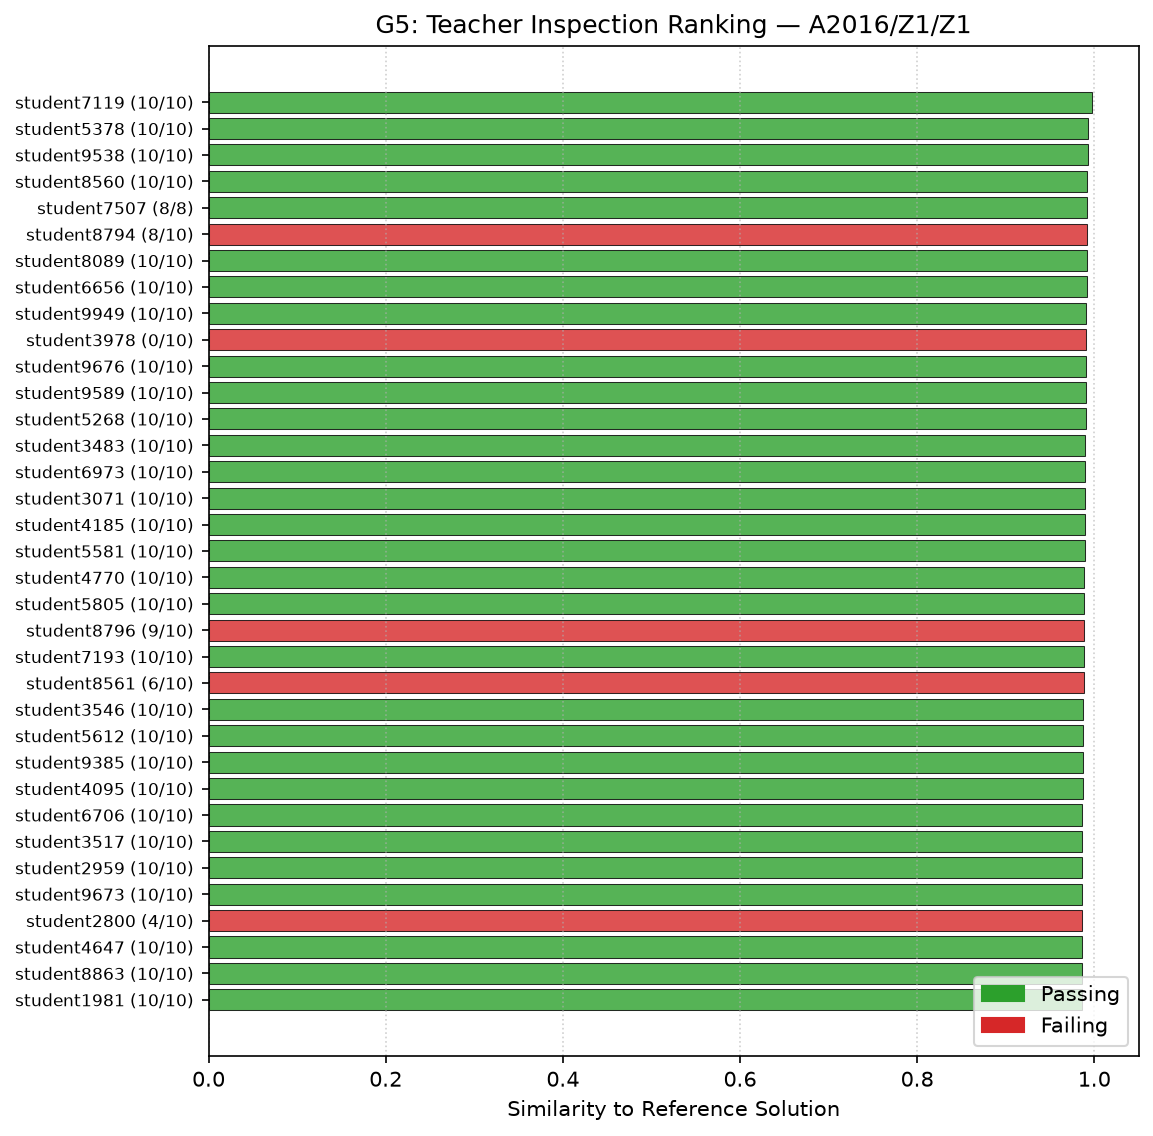
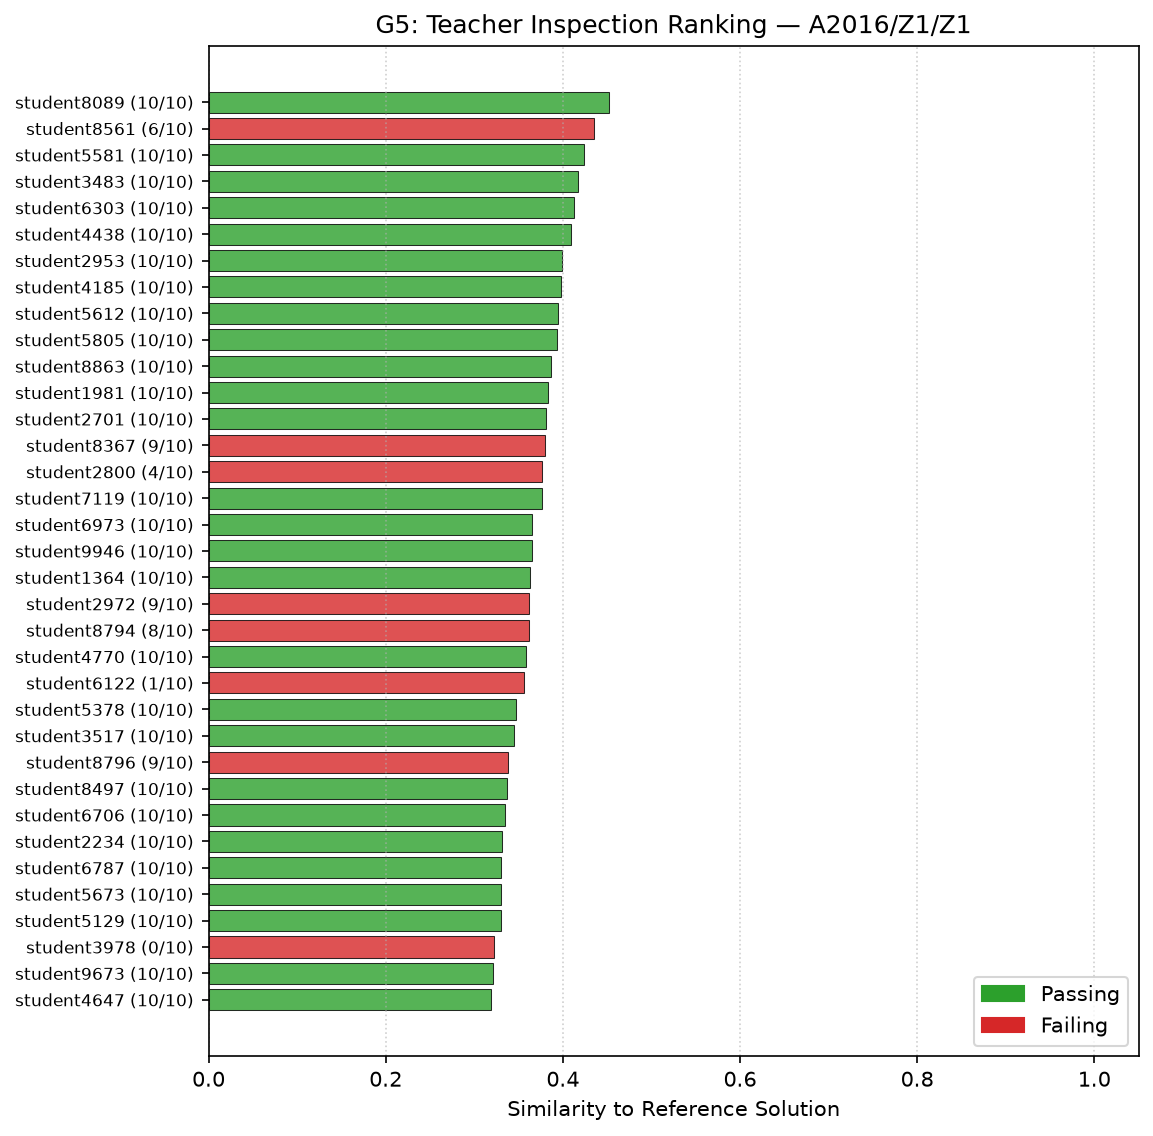
feat(eval): automate E2 table generation and add objective cluster showcase t-SNE

diff --git a/models/logic_eval/plots.py b/models/logic_eval/plots.py
@@ -297,3 +297,181 @@ def plot_g5_teacher_view(
     out_path.parent.mkdir(parents=True, exist_ok=True)
     plt.savefig(out_path, dpi=150, bbox_inches="tight")
     plt.close(fig)
+
+
+def plot_cluster_showcase(
+    embeddings: np.ndarray,
+    labels: List[str],
+    out_path: Path,
+    json_path: Optional[Path] = None,
+    seeds: Sequence[int] = (42, 7, 123),
+    dpi: int = 300,
+) -> Dict[str, Any]:
+    """Plot showcase t-SNE clusters selected by objective inter-task cross-similarity criteria.
+
+    1. Computes mean cosine similarity between every pair of tasks.
+    2. Selects the 3 most distinct tasks (minimal pairwise cross-similarity).
+    3. Selects the 2 most similar tasks (maximal pairwise cross-similarity).
+    4. Projects 2 panels:
+       (a) 3 distinct tasks forming clear clusters, plus an outlier point from another task.
+       (b) 2 similar tasks showing partial overlap.
+    5. Saves cluster selection metadata to json_path.
+    """
+    from sklearn.manifold import TSNE
+
+    labels_arr = np.array(labels)
+    unique_tasks = sorted(list(set(labels)))
+    n_tasks = len(unique_tasks)
+
+    # Compute task centroids and mean cross-task similarities
+    task_indices: Dict[str, np.ndarray] = {
+        t: np.flatnonzero(labels_arr == t) for t in unique_tasks
+    }
+
+    # Normalize embeddings to unit sphere for cosine operations
+    norms = np.linalg.norm(embeddings, axis=1, keepdims=True)
+    norms[norms == 0] = 1.0
+    normed_emb = embeddings / norms
+
+    task_cross_sim: Dict[Tuple[str, str], float] = {}
+    for i in range(n_tasks):
+        t_i = unique_tasks[i]
+        idx_i = task_indices[t_i]
+        if len(idx_i) == 0:
+            continue
+        vecs_i = normed_emb[idx_i]
+        for j in range(i + 1, n_tasks):
+            t_j = unique_tasks[j]
+            idx_j = task_indices[t_j]
+            if len(idx_j) == 0:
+                continue
+            vecs_j = normed_emb[idx_j]
+            # Mean cross similarity
+            cross_sim = float(np.mean(vecs_i @ vecs_j.T))
+            task_cross_sim[(t_i, t_j)] = cross_sim
+
+    if not task_cross_sim:
+        return {}
+
+    # Find pair with maximum similarity (most similar pair)
+    most_similar_pair, max_sim = max(task_cross_sim.items(), key=lambda x: x[1])
+
+    # Find triplet with minimum average cross similarity among tasks with sufficient samples (>= 20)
+    eligible_tasks = [t for t in unique_tasks if len(task_indices[t]) >= 20]
+    if len(eligible_tasks) < 3:
+        eligible_tasks = unique_tasks
+
+    best_triplet = None
+    min_triplet_sim = float("inf")
+    for i in range(len(eligible_tasks)):
+        for j in range(i + 1, len(eligible_tasks)):
+            for k in range(j + 1, len(eligible_tasks)):
+                t1, t2, t3 = eligible_tasks[i], eligible_tasks[j], eligible_tasks[k]
+                s12 = task_cross_sim.get((t1, t2)) or task_cross_sim.get((t2, t1), 0.0)
+                s13 = task_cross_sim.get((t1, t3)) or task_cross_sim.get((t3, t1), 0.0)
+                s23 = task_cross_sim.get((t2, t3)) or task_cross_sim.get((t3, t2), 0.0)
+                avg_sim = (s12 + s13 + s23) / 3.0
+                if avg_sim < min_triplet_sim:
+                    min_triplet_sim = avg_sim
+                    best_triplet = (t1, t2, t3)
+
+    if best_triplet is None:
+        best_triplet = tuple(eligible_tasks[:3])
+
+    # Pick an outlier task not in the triplet
+    remaining_tasks = [t for t in eligible_tasks if t not in best_triplet]
+    outlier_task = remaining_tasks[0] if remaining_tasks else unique_tasks[0]
+
+    showcase_info = {
+        "distinct_triplet": {
+            "tasks": list(best_triplet),
+            "mean_cross_similarity": min_triplet_sim,
+        },
+        "similar_pair": {
+            "tasks": list(most_similar_pair),
+            "cross_similarity": max_sim,
+        },
+        "outlier_task": outlier_task,
+    }
+
+    if json_path is not None:
+        json_path.parent.mkdir(parents=True, exist_ok=True)
+        with open(json_path, "w", encoding="utf-8") as f:
+            json.dump(showcase_info, f, indent=2)
+
+    # Project with primary seed (42) and check stability across seeds
+    panel_a_tasks = list(best_triplet)
+    panel_b_tasks = list(most_similar_pair)
+
+    # Subsample up to 40 per task
+    rng = np.random.default_rng(42)
+    def _sample_indices(task_list: List[str], max_n: int = 40) -> np.ndarray:
+        sel = []
+        for t in task_list:
+            idxs = task_indices[t]
+            if len(idxs) > max_n:
+                chosen = rng.choice(idxs, size=max_n, replace=False)
+            else:
+                chosen = idxs
+            sel.extend(chosen)
+        return np.array(sel, dtype=np.int64)
+
+    sel_a = _sample_indices(panel_a_tasks, max_n=40)
+    # Add 1 point from outlier task
+    outlier_idx = rng.choice(task_indices[outlier_task], size=1)[0]
+    sel_a_with_outlier = np.append(sel_a, outlier_idx)
+
+    sel_b = _sample_indices(panel_b_tasks, max_n=40)
+
+    # Plot figure with primary seed 42
+    primary_seed = seeds[0] if seeds else 42
+    tsne_a = TSNE(n_components=2, metric="cosine", perplexity=25, init="pca", random_state=primary_seed)
+    coords_a = tsne_a.fit_transform(normed_emb[sel_a_with_outlier])
+
+    tsne_b = TSNE(n_components=2, metric="cosine", perplexity=25, init="pca", random_state=primary_seed)
+    coords_b = tsne_b.fit_transform(normed_emb[sel_b])
+
+    fig, (ax1, ax2) = plt.subplots(1, 2, figsize=(13, 5.5))
+
+    # Panel (a): 3 distinct tasks + outlier
+    palette_a = ["#1f77b4", "#2ca02c", "#d62728"]
+    for idx_t, t in enumerate(panel_a_tasks):
+        mask = (labels_arr[sel_a_with_outlier] == t)
+        coords_t = coords_a[mask]
+        ax1.scatter(coords_t[:, 0], coords_t[:, 1], c=palette_a[idx_t], label=f"Problema {t}", alpha=0.75, s=40, edgecolors="none")
+        # Reference star on first point
+        if len(coords_t) > 0:
+            ax1.scatter(coords_t[0, 0], coords_t[0, 1], c="gold", edgecolors="black", marker="*", s=220, linewidths=1.2, label="Referencia docente" if idx_t == 0 else None)
+
+    # Plot outlier point
+    outlier_coord = coords_a[-1]
+    ax1.scatter([outlier_coord[0]], [outlier_coord[1]], c="#9467bd", marker="X", s=130, edgecolors="black", linewidths=1.0, label=f"Otro problema ({outlier_task})")
+
+    ax1.set_title("(a) Tres problemas con lógica distinta", fontsize=11, fontweight="bold")
+    ax1.set_xlabel("t-SNE Dimensión 1")
+    ax1.set_ylabel("t-SNE Dimensión 2")
+    ax1.legend(loc="best", fontsize=8.5, framealpha=0.9)
+    ax1.grid(True, linestyle=":", alpha=0.5)
+
+    # Panel (b): 2 similar tasks
+    palette_b = ["#ff7f0e", "#17becf"]
+    for idx_t, t in enumerate(panel_b_tasks):
+        mask = (labels_arr[sel_b] == t)
+        coords_t = coords_b[mask]
+        ax2.scatter(coords_t[:, 0], coords_t[:, 1], c=palette_b[idx_t], label=f"Problema {t}", alpha=0.75, s=40, edgecolors="none")
+        if len(coords_t) > 0:
+            ax2.scatter(coords_t[0, 0], coords_t[0, 1], c="gold", edgecolors="black", marker="*", s=220, linewidths=1.2, label="Referencia docente" if idx_t == 0 else None)
+
+    ax2.set_title("(b) Dos problemas con lógica similar (superposición)", fontsize=11, fontweight="bold")
+    ax2.set_xlabel("t-SNE Dimensión 1")
+    ax2.set_ylabel("t-SNE Dimensión 2")
+    ax2.legend(loc="best", fontsize=8.5, framealpha=0.9)
+    ax2.grid(True, linestyle=":", alpha=0.5)
+
+    fig.tight_layout()
+    out_path.parent.mkdir(parents=True, exist_ok=True)
+    plt.savefig(out_path, dpi=dpi, bbox_inches="tight")
+    plt.close(fig)
+
+    return showcase_info
+

diff --git a/scripts/logic_grouping_eval.py b/scripts/logic_grouping_eval.py
@@ -39,6 +39,7 @@ from models.logic_eval.grouping import (
     random_baseline_map_at_r,
 )
 from models.logic_eval.plots import (
+    plot_cluster_showcase,
     plot_g1_heatmap,
     plot_g2_projection,
     plot_g3_map_at_r,
@@ -408,13 +409,24 @@ def main():
                 "ci95": [ci_low, ci_high],
             }
 
-    # 5. Generate Plots (G1 to G5)
-    print("Generating plots (G1 - G5)...")
+    # 5. Generate Plots (G1 to G5 + Showcase)
+    print("Generating plots (G1 - G5 + Cluster Showcase)...")
     plot_g1_heatmap(sim_matrices, labels, plots_dir / "g1_heatmap.png")
     plot_g2_projection(embeddings_by_method, labels, plots_dir / "g2_projection.png", seed=args.seed)
     plot_g3_map_at_r(e1_metrics, rnd_baseline, plots_dir / "g3_map_at_r.png")
     plot_g4_correctness(correctness_points_by_method, plots_dir / "g4_correctness.png")
     plot_g5_teacher_view(first_assignment_ranking_for_g5, first_assignment_name or "A2016/Z1/Z1", plots_dir / "g5_teacher_view.png")
+
+    if "v2" in embeddings_by_method:
+        print("Generating cluster showcase (t-SNE based on cross-task objective criteria)...")
+        plot_cluster_showcase(
+            embeddings=embeddings_by_method["v2"],
+            labels=labels,
+            out_path=plots_dir / "clusters_canal_a.png",
+            json_path=run_dir / "cluster_showcase.json",
+            seeds=(42, 7, 123),
+            dpi=300,
+        )
 
     # 6. Save Artifacts and Results
     print("Writing result files...")
@@ -547,6 +559,39 @@ def main():
         sp_ci = mres.get("spearman_ci95")
         sp_ci_str = f"[{sp_ci[0]:.4f}, {sp_ci[1]:.4f}]" if sp_ci and sp_ci[0] is not None else "N/A"
         report_md += f"| `{m}` | {auc_str} {auc_ci_str} | {sp_str} {sp_ci_str} |\n"
+
+    report_md += """
+### Resultados E2 por Tarea
+
+| Tarea | Total (N) | Aprobadas | Reprobadas | AUC (jaccard) | AUC (v2) | AUC (v2_norm) | Spearman (v2) |
+|---|:---:|:---:|:---:|:---:|:---:|:---:|:---:|
+"""
+    # Build per-task map across methods
+    all_methods_per_task: Dict[str, Dict[str, Any]] = {}
+    for m, mres in e2_results_by_method.items():
+        for item in mres.get("per_assignment", []):
+            assign = item["assignment"]
+            if assign not in all_methods_per_task:
+                all_methods_per_task[assign] = {
+                    "n_total": item.get("n_pass", 0) + item.get("n_fail", 0),
+                    "n_pass": item.get("n_pass", 0),
+                    "n_fail": item.get("n_fail", 0),
+                    "aucs": {},
+                    "spearmans": {},
+                }
+            all_methods_per_task[assign]["aucs"][m] = item.get("auc")
+            all_methods_per_task[assign]["spearmans"][m] = item.get("spearman")
+
+    for assign in sorted(all_methods_per_task.keys()):
+        tinfo = all_methods_per_task[assign]
+        tot = tinfo["n_total"]
+        npas = tinfo["n_pass"]
+        nfai = tinfo["n_fail"]
+        j_auc = f"{tinfo['aucs'].get('jaccard', 0.0):.4f}" if tinfo['aucs'].get('jaccard') is not None else "N/A"
+        v2_auc = f"{tinfo['aucs'].get('v2', 0.0):.4f}" if tinfo['aucs'].get('v2') is not None else "N/A"
+        v2norm_auc = f"{tinfo['aucs'].get('v2_norm', 0.0):.4f}" if tinfo['aucs'].get('v2_norm') is not None else "N/A"
+        v2_sp = f"{tinfo['spearmans'].get('v2', 0.0):.4f}" if tinfo['spearmans'].get('v2') is not None else "N/A"
+        report_md += f"| `{assign}` | {tot} | {npas} | {nfai} | {j_auc} | {v2_auc} | {v2norm_auc} | {v2_sp} |\n"
 
     report_md += """
 ### Contrastes Pareados E2 (Macro-AUC sobre tareas)
